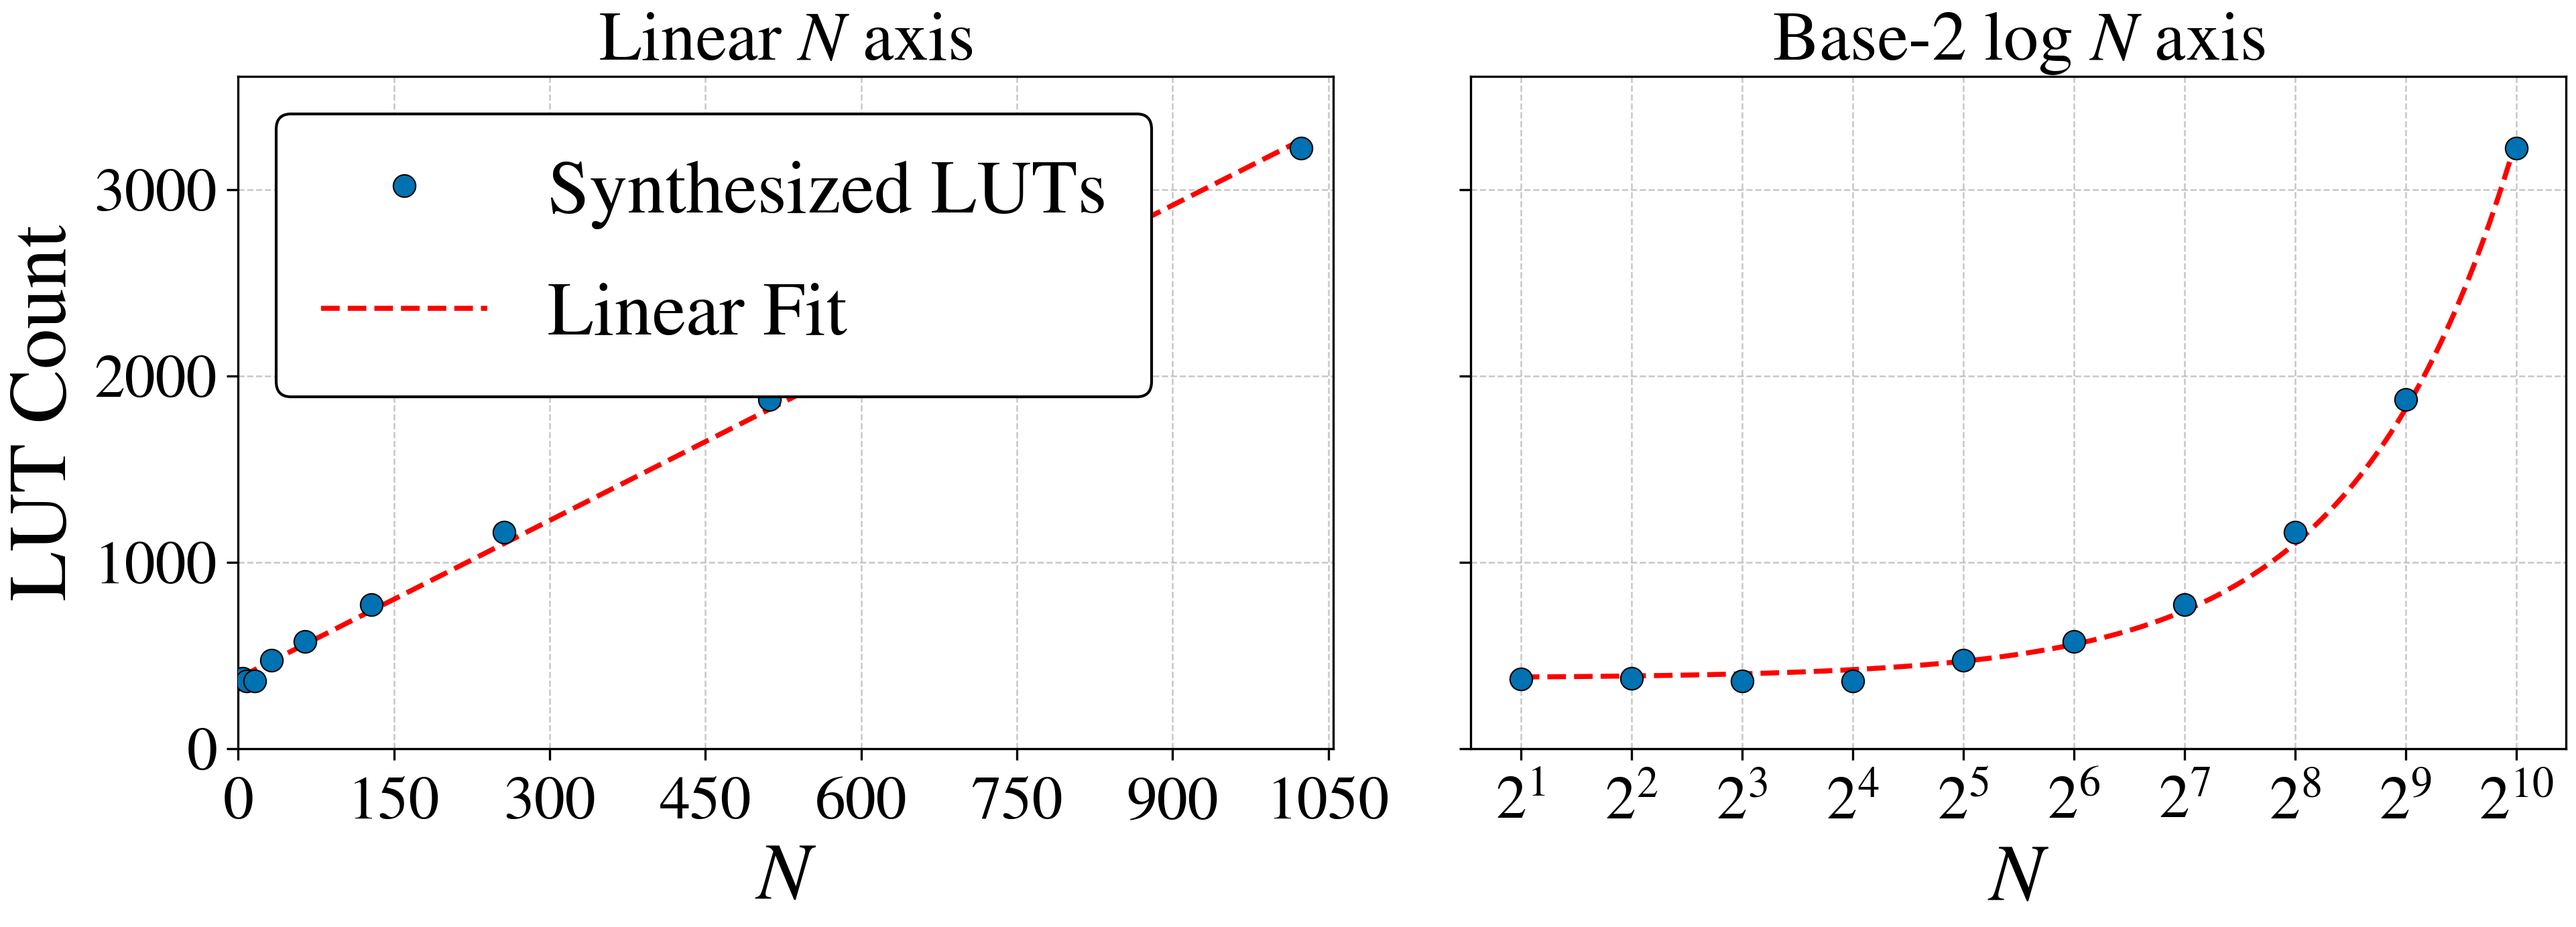
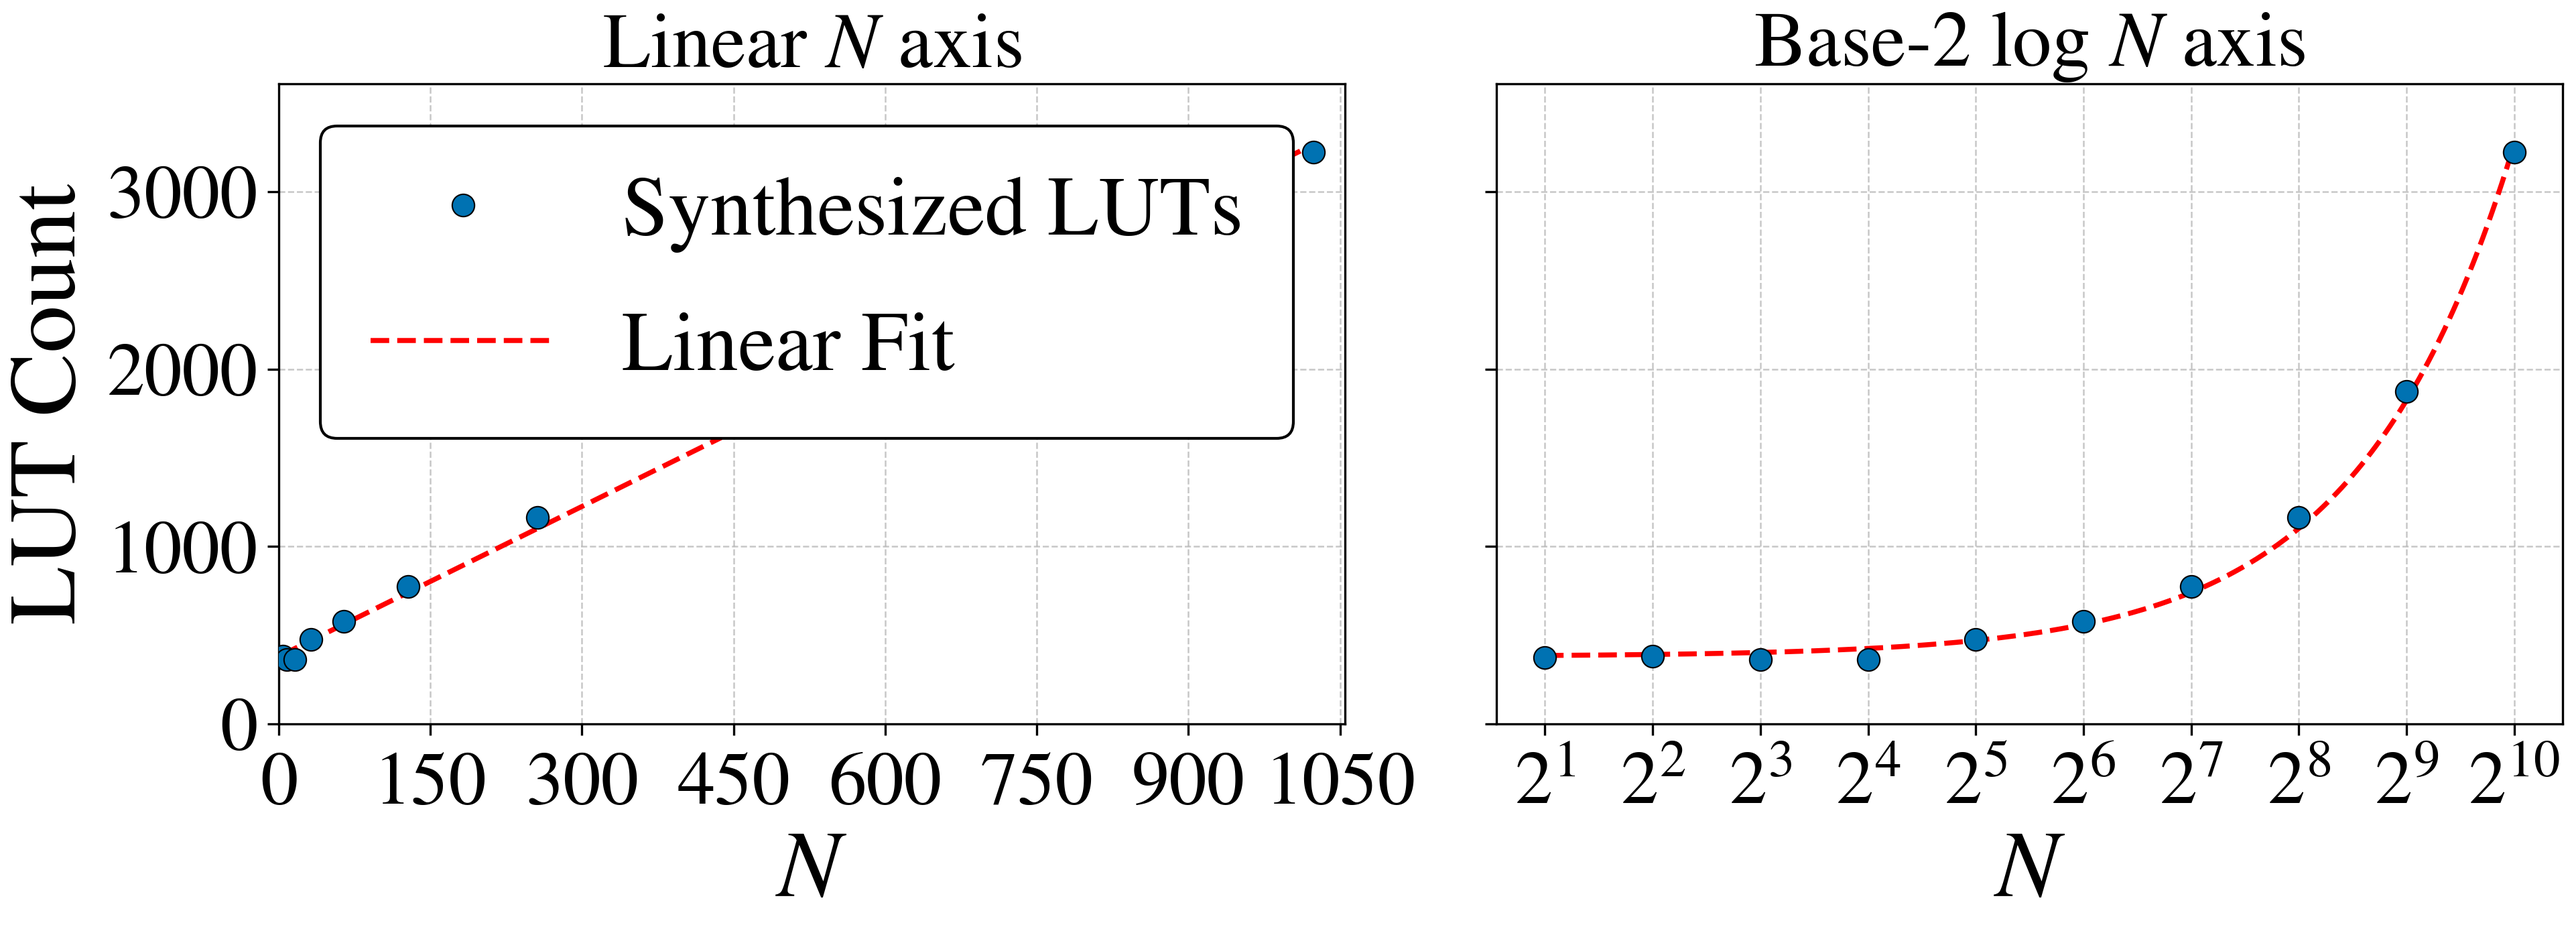
m

diff --git a/evaluation/layernorm/N_sweep/scripts/plot_resources.py b/evaluation/layernorm/N_sweep/scripts/plot_resources.py
@@ -137,7 +137,16 @@ def affine_fit(n_vals: np.ndarray, lut: np.ndarray) -> tuple[float, float, float
 
 
 def configure_style() -> None:
-    """Apply the shared publication rcParams style (see plot_accuracy.py)."""
+    """Apply the shared publication rcParams style (see plot_accuracy.py).
+
+    The axis/tick/legend sizes match the enlarged sizes in plot_accuracy.py so
+    that resources_lut_log.png stays typographically consistent with
+    accuracy_1_newton.png -- the two are placed side by side in the thesis and
+    must read at the same scale once LaTeX shrinks them to the text width.
+    ``axes.titlesize`` only shows on the two-panel combined figure (the
+    stand-alone log/linear figures carry no title); it is bumped in step so those
+    panel titles stay proportionate to the larger axis labels.
+    """
     plt.rcParams.update(
         {
             "font.family": "serif",
@@ -145,11 +154,11 @@ def configure_style() -> None:
             "mathtext.fontset": "stix",
             "axes.unicode_minus": True,
             "font.size": 23,
-            "axes.titlesize": 25,
-            "axes.labelsize": 29,
-            "xtick.labelsize": 22,
-            "ytick.labelsize": 22,
-            "legend.fontsize": 27,
+            "axes.titlesize": 28,
+            "axes.labelsize": 34,
+            "xtick.labelsize": 27,
+            "ytick.labelsize": 27,
+            "legend.fontsize": 30,
             "axes.linewidth": 0.8,
             "axes.edgecolor": "black",
             "xtick.direction": "out",
